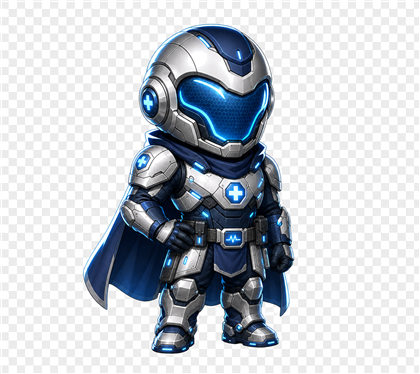
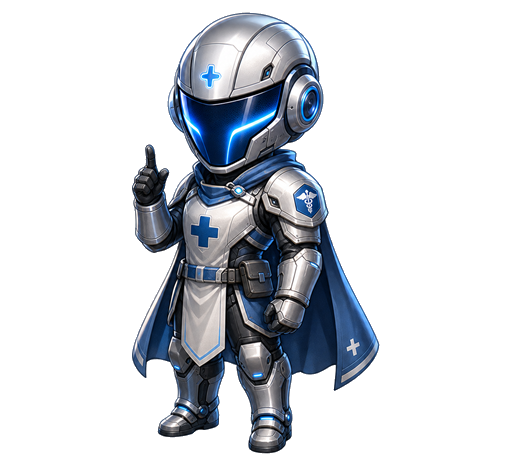
refactor(ui): simplify layout and improve clinical readability

diff --git a/src/App.css b/src/App.css
@@ -3346,3 +3346,198 @@ textarea {
     min-height: 40px;
   }
 }
+
+/* Final clinical premium polish */
+.hero-section {
+  padding-top: 20px;
+  padding-bottom: 12px;
+}
+
+.hero-copy h1 {
+  font-size: clamp(2.25rem, 6vw, 3.5rem);
+}
+
+.hero-copy .lead {
+  max-width: 560px;
+  margin-bottom: 10px;
+}
+
+.guide-helper {
+  grid-template-columns: 92px minmax(0, 1fr);
+  max-width: 600px;
+  margin-bottom: 12px;
+}
+
+.guide-helper::before {
+  display: none;
+}
+
+.guide-helper img {
+  display: block;
+  width: 90px;
+  height: 96px;
+  object-fit: contain;
+  background: transparent;
+  filter:
+    drop-shadow(0 0 16px rgba(56, 189, 248, 0.35))
+    drop-shadow(0 12px 24px rgba(0, 0, 0, 0.34));
+}
+
+.guide-bubble {
+  padding: 12px 16px;
+  background: rgba(7, 27, 46, 0.86);
+}
+
+.guide-bubble strong {
+  color: #ffffff;
+  font-size: 0.98rem;
+}
+
+.guide-bubble span {
+  color: #cbd5e1;
+}
+
+.step-heading {
+  position: static;
+  display: grid;
+  grid-template-columns: auto minmax(0, 1fr);
+  gap: 8px 10px;
+  border: 0;
+  border-radius: 0;
+  padding: 8px 0 14px;
+  background: transparent;
+  box-shadow: none;
+  backdrop-filter: none;
+}
+
+.step-badge {
+  min-width: auto;
+  min-height: 24px;
+  border-radius: 8px;
+  padding: 3px 8px;
+  background: rgba(56, 189, 248, 0.12);
+  color: #38bdf8;
+  font-size: 0.78rem;
+  line-height: 1;
+}
+
+.step-heading h3 {
+  color: #ffffff;
+  font-size: 1.05rem;
+  line-height: 1.3;
+}
+
+.step-heading p {
+  grid-column: 1 / -1;
+  margin: 0;
+  color: #cbd5e1;
+  font-size: 0.92rem;
+  line-height: 1.55;
+}
+
+.input-guide-card {
+  display: none;
+}
+
+.step-tabs {
+  gap: 14px;
+  padding: 4px 0 10px;
+}
+
+.step-tabs button {
+  max-width: 136px;
+  min-height: 26px;
+  color: #94a3b8;
+  font-size: 0.82rem;
+}
+
+.step-tabs button.active {
+  color: #38bdf8;
+}
+
+.panel-heading h2,
+.input-toolbar h2,
+.focus-heading h3,
+.medical-note,
+.handoff dt,
+.handoff dd {
+  color: #ffffff;
+}
+
+.panel-heading p,
+.input-toolbar p,
+.focus-heading p,
+.handoff,
+.medical-note {
+  color: #cbd5e1;
+}
+
+.choice-group,
+.field-row,
+.step-card:not(.disease-card),
+.summary-section {
+  border-radius: 16px;
+}
+
+.step-bottom-nav {
+  padding: 6px;
+}
+
+.step-bottom-nav button {
+  min-height: 40px;
+}
+
+@media (max-width: 768px) {
+  .hero-section {
+    padding-top: 12px;
+    padding-bottom: 8px;
+  }
+
+  .hero-copy h1,
+  h1 {
+    font-size: clamp(2rem, 8.8vw, 2.45rem);
+    margin-bottom: 8px;
+  }
+
+  .hero-copy .lead {
+    margin-bottom: 8px;
+    font-size: 0.9rem;
+    line-height: 1.45;
+  }
+
+  .guide-helper {
+    grid-template-columns: 78px minmax(0, 1fr);
+    gap: 8px;
+    margin-bottom: 8px;
+  }
+
+  .guide-helper img {
+    width: 76px;
+    height: 84px;
+  }
+
+  .guide-bubble {
+    padding: 9px 11px;
+  }
+
+  .guide-bubble strong {
+    font-size: 0.92rem;
+  }
+
+  .guide-bubble span {
+    font-size: 0.82rem;
+    line-height: 1.45;
+  }
+
+  .step-heading {
+    padding-bottom: 10px;
+  }
+
+  .step-heading h3 {
+    font-size: 1rem;
+  }
+
+  .step-heading p {
+    font-size: 0.86rem;
+  }
+}